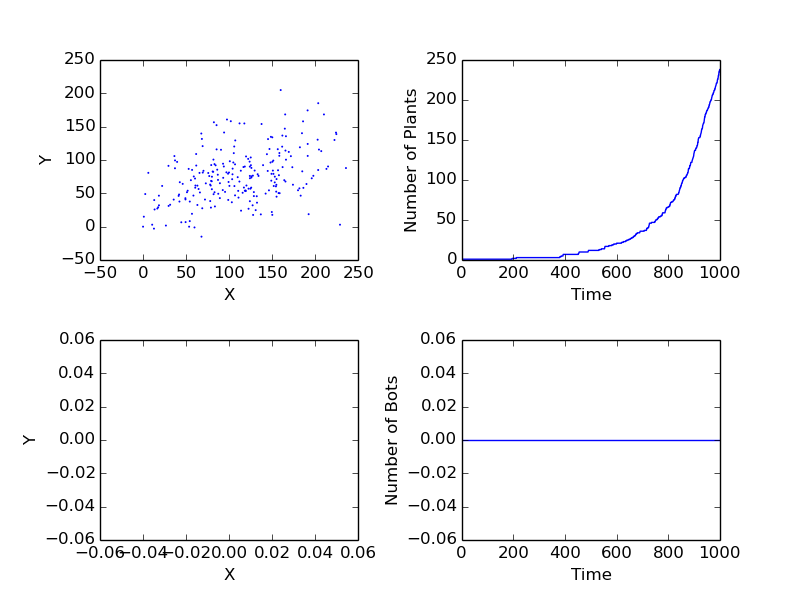
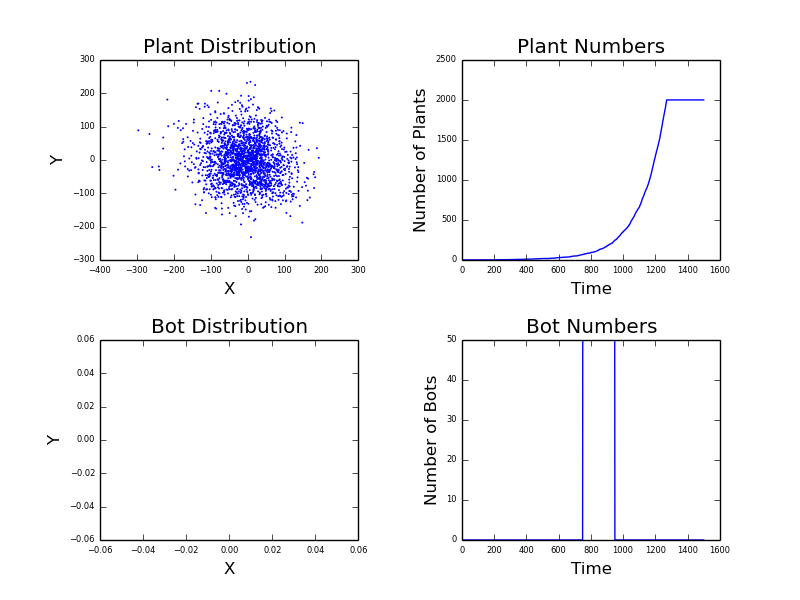
Added __repr__ methods for Plants and Bots. Improved graphs with better axes and titles. Added preliminary bots to simulation run with most basic behavior. They stay still, run out of energy, and die.

diff --git a/simulation.py b/simulation.py
@@ -7,6 +7,7 @@ from matplotlib import pyplot as plt
 import numpy as np
 import time
 
+
 class NodeRegister:
     # statement and conditional are just used to ID functions
     statement = 1
@@ -64,9 +65,9 @@ class BehaviorTree:
         self.behavior_nodes = []
         self.current_behavior_node = None
 
-    def execute(self, bot):
+    def step(self, bot):
         if self.current_behavior_node is None:
-            raise ValueError("Current Node Must be a function, not None.")
+            raise ValueError("Current Node Must be a function, not None. (Bot: %s)" % bot)
         self.current_behavior_node = self.current_behavior_node.execute(bot)
 
     def return_tree_copy(self):
@@ -98,10 +99,21 @@ class Bot(BaseSimulationEntity):
         else:
             self.name = name
 
-    def execute(self):
+    def step(self):
         if self.behavior_tree is None:
             raise ValueError("Behavior Tree for bot %s must be BehaviorTree object, not None." % self)
-        self.behavior_tree.execute()
+        self.behavior_tree.step(self)
+        self.energy -= 1
+        if self.energy < 1:
+            self.dead = True
+
+    def __repr__(self):
+        return self.name
+
+    @staticmethod
+    @statement
+    def rest(bot):
+        pass
 
 
 class Plant(BaseSimulationEntity):
@@ -123,7 +135,7 @@ class Plant(BaseSimulationEntity):
         self.spore_max_travel = 80
         self.percent_reproduction_chance = 2
 
-    def execute(self):
+    def step(self):
         # Check if the plant can grow
         if self.energy < self.max_energy:
             self.energy += self.growth_rate
@@ -133,13 +145,16 @@ class Plant(BaseSimulationEntity):
             self.dead = True
         self.age += 1
 
+    def __repr__(self):
+        return self.name
+
     def check_reproduction(self):
         if self.energy >= (self.max_energy - self.child_investment):
             # Check if reproduction randomly allowed
             if random.randint(0, 100) < self.percent_reproduction_chance:
                 # Find the new location of the child
                 travel_distance = random.randint(self.spore_min_travel, self.spore_max_travel)
-                travel_angle_rads = random.random() * 2
+                travel_angle_rads = random.random() * 2 * math.pi
                 child_x = self.x + (travel_distance * math.sin(travel_angle_rads))
                 child_y = self.y + (travel_distance * math.cos(travel_angle_rads))
                 # Take energy from the parent and give to the child
@@ -155,17 +170,13 @@ class World:
         self.bot_limit = bot_limit
         self.plant_limit = plant_limit
 
-    def execute(self):
-        # Update plants
-        for plant in list(self.plants):
-            plant.execute()
-            if plant.dead:
-                self.plants.remove(plant)
-        # Update bots
-        for bot in list(self.bots):
-            bot.execute()
-            if bot.dead:
-                self.bots.remove(bot)
+    def step(self):
+        # Update all plants then all bots
+        for array in [self.plants, self.bots]:
+            for entity in list(array):
+                entity.step()
+                if entity.dead:
+                    array.remove(entity)
 
     def add_bot(self, bot):
         if self.bot_limit and len(self.bot_limit) > self.bot_limit:
@@ -183,17 +194,30 @@ class World:
 if __name__ == '__main__':
     start_time = time.time()
     print("Starting Simulation...")
-    Earth = World()
+    Earth = World(plant_limit=2000)
     Earth.add_plant(Plant(0, 0, 5))
     plant_numbers = []
     bot_numbers = []
-    for tick in range(1000):
-        Earth.execute()
-        # Keep track of some info for graphing
-        plant_numbers.append(len(Earth.plants))
-        bot_numbers.append(len(Earth.bots))
 
-    # Display some graphs to get a sense of what's going on
+    def run(ticks):
+        for tick in range(ticks):
+            Earth.step()
+            # Keep track of some info for graphing
+            plant_numbers.append(len(Earth.plants))
+            bot_numbers.append(len(Earth.bots))
+
+    run(750)
+    basic_behavior = BehaviorTree()
+    basic_node = BehaviorNode(Bot.rest)
+    basic_node.next_node = basic_node
+    basic_behavior.behavior_nodes = [basic_node]
+    basic_behavior.current_behavior_node = basic_behavior.behavior_nodes[0]
+    for i in range(50):
+        Earth.add_bot(Bot(random.randint(-50, 50), random.randint(-50, 50), 200,
+                          behavior_tree=basic_behavior.return_tree_copy()))
+    run(750)
+
+    # Create some graphs to get a sense of what's going on
     graph = plt.figure()
     graph.subplots_adjust(wspace=0.4)
     graph.subplots_adjust(hspace=0.4)
@@ -216,6 +240,12 @@ if __name__ == '__main__':
     bot_nums.plot(range(0, len(bot_numbers)), bot_numbers,)
     bot_nums.set_xlabel('Time')
     bot_nums.set_ylabel('Number of Bots')
+
+    # Make all subplot axes tick labels smaller and give them a title
+    for subplot, title in [(plant_dist, 'Plant Distribution'), (plant_nums, 'Plant Numbers'),
+                           (bot_dist, 'Bot Distribution'), (bot_nums, 'Bot Numbers')]:
+        subplot.tick_params(labelsize=6)
+        subplot.set_title(title)
 
     graph.savefig(os.getcwd() + os.sep + 'graphs' + os.sep + 'simulation.png', dpi=100)
     print("Elapsed seconds:", time.time() - start_time)
